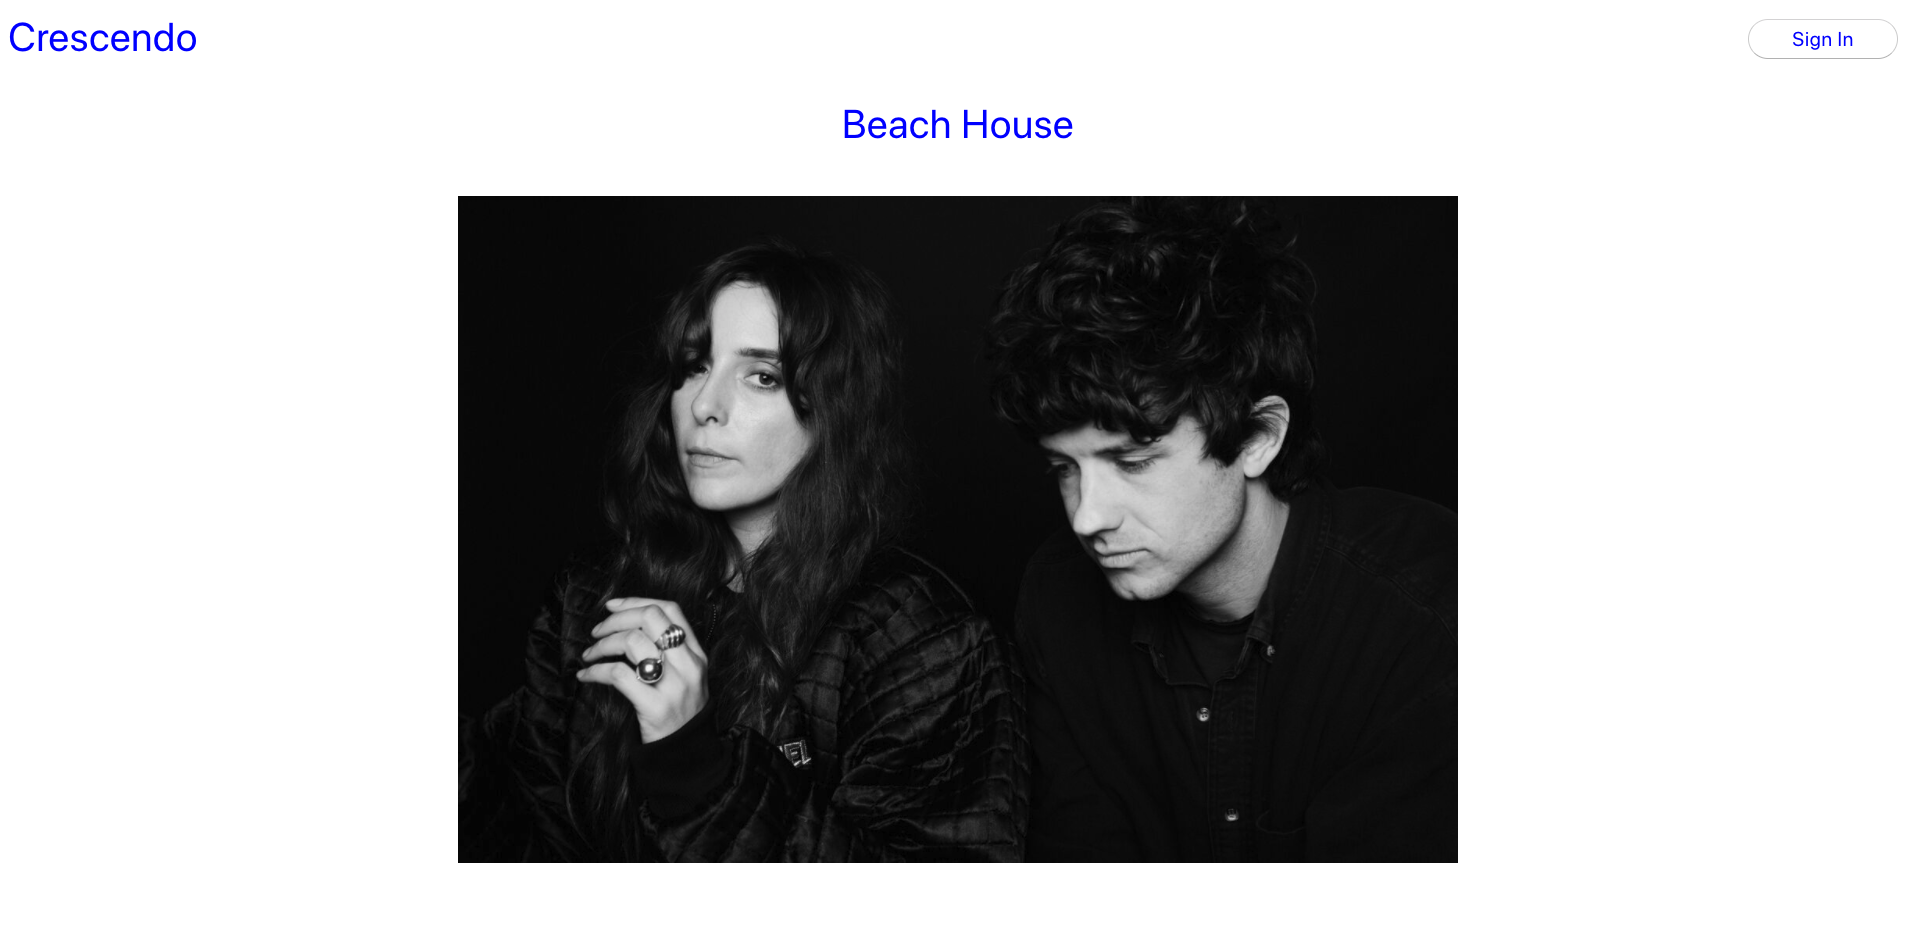
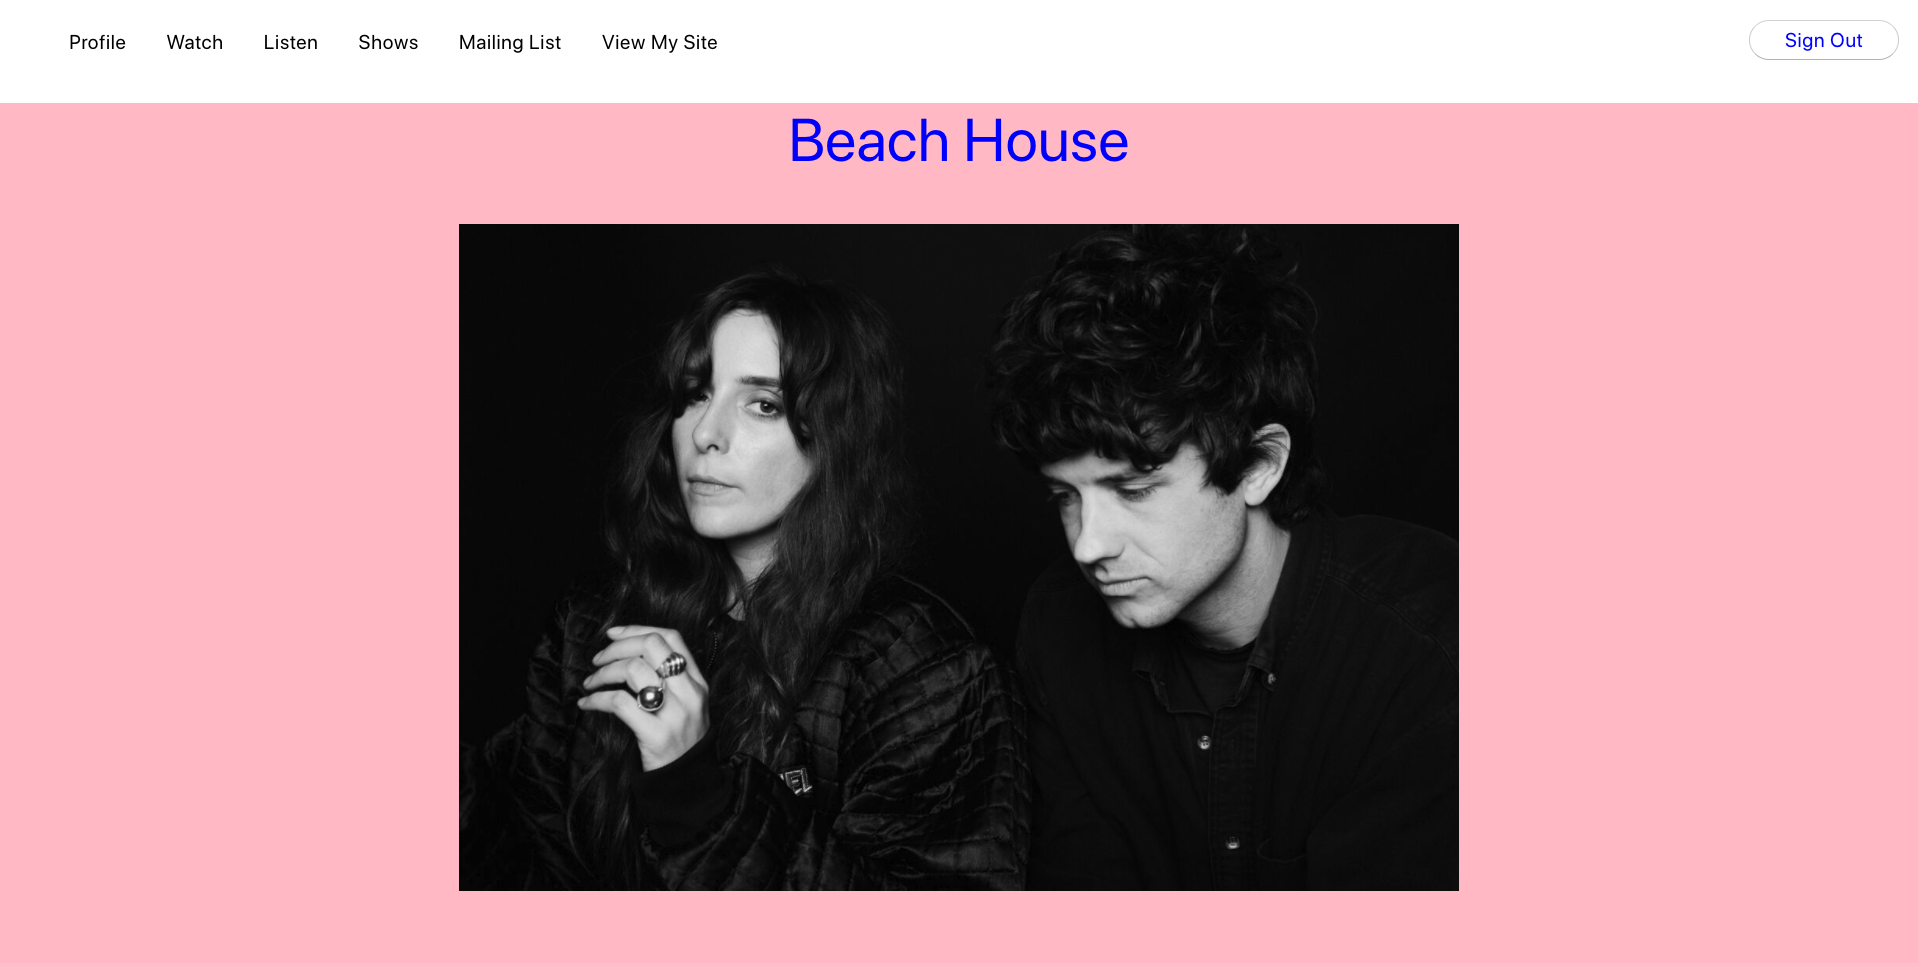
200415

diff --git a/src/ProfilePage/ProfilePage.js b/src/ProfilePage/ProfilePage.js
@@ -234,39 +234,35 @@ class ProfilePage extends Component {
             </p>
           </form>
 
-          <Context.Consumer>
-            {value => (
-              <div className="watchpage">
-                <section>
-                  {this.context.videos.map(video => (
-                    <div key={video.id}>
-                      <iframe
-                        className="videos"
-                        title="newVideo"
-                        width="46.3%"
-                        height="473"
-                        src={video.video}
-                        frameBorder="0"
-                        allow="accelerometer; autoplay; encrypted-media; gyroscope; picture-in-picture"
-                        allowFullScreen
-                      ></iframe>
-                      <div>
-                        <button
-                          className="delete-video"
-                          type="button"
-                          onClick={e => this.videosClickDelete(e, video.id)}
-                        >
-                          <i></i>
-                          {''}
-                          Delete
-                        </button>
-                      </div>
-                    </div>
-                  ))}
-                </section>
-              </div>
-            )}
-          </Context.Consumer>
+          <div className="watchpage">
+            <section>
+              {this.context.videos.map(video => (
+                <div key={video.id}>
+                  <iframe
+                    className="videos"
+                    title="newVideo"
+                    width="46.3%"
+                    height="473"
+                    src={video.video}
+                    frameBorder="0"
+                    allow="accelerometer; autoplay; encrypted-media; gyroscope; picture-in-picture"
+                    allowFullScreen
+                  ></iframe>
+                  <div>
+                    <button
+                      className="delete-video"
+                      type="button"
+                      onClick={e => this.videosClickDelete(e, video.id)}
+                    >
+                      <i></i>
+                      {''}
+                      Delete
+                    </button>
+                  </div>
+                </div>
+              ))}
+            </section>
+          </div>
 
           <h3>Submit Bandcamp embedded links for your music project</h3>
           <form
@@ -328,39 +324,37 @@ class ProfilePage extends Component {
             </p>
           </form>
 
-          <Context.Consumer>
-            {value => (
-              <div className="listenpage">
-                <section>
-                  {this.context.songs.map(song => (
-                    <div key={song.id}>
-                      <iframe
-                        className="songs"
-                        title="bandcamp alum"
-                        border="0"
-                        width="350px"
-                        height="470px"
-                        src={song.song}
-                      ></iframe>
-                      <div>
-                        <button
-                          className="delete"
-                          type="button"
-                          onClick={e => this.songsClickDelete(e, song.id)}
-                        >
-                          <i></i>
-                          {''}
-                          Delete
-                        </button>
-                      </div>
-                    </div>
-                  ))}
-                </section>
-              </div>
-            )}
-          </Context.Consumer>
+          <div className="listenpage">
+            <section className="image-songspage">
+              {this.context.songs.map(song => (
+                <div key={song.id}>
+                  <iframe
+                    className="songs"
+                    title="bandcamp alum"
+                    border="0"
+                    width="350px"
+                    height="470px"
+                    src={song.song}
+                  ></iframe>
+                  <div>
+                    <button
+                      className="delete-song"
+                      type="button"
+                      onClick={e => this.songsClickDelete(e, song.id)}
+                    >
+                      <i></i>
+                      {''}
+                      Delete
+                    </button>
+                  </div>
+                </div>
+              ))}
+            </section>
+          </div>
 
-          <h3>Submit your music project's upcoming shows</h3>
+          <h3 className="submit-shows">
+            Submit your music project's upcoming shows
+          </h3>
           <form
             className="band-form"
             ref={form => (this.form = form)}
@@ -422,39 +416,33 @@ class ProfilePage extends Component {
             </p>
           </form>
 
-          <Context.Consumer>
-            {value => (
-              <div className="showspage">
-                <section className="image-showspage">
-                  {this.context.shows.map(show => (
-                    <div key={show.id}>
-                      <div className="shows-render">
-                        <h3>{show.venue}</h3>
-                        <h3>{show.date}</h3>
-                        <h3>{show.city}</h3>
-                        <br />
-                      </div>
-                      <div>
-                        <button
-                          className="delete"
-                          type="button"
-                          onClick={e => this.showsClickDelete(e, show.id)}
-                        >
-                          <i></i>
-                          {''}
-                          Delete
-                        </button>
-                      </div>
-                    </div>
-                  ))}
-                </section>
-              </div>
-            )}
-          </Context.Consumer>
+          <div className="showspage">
+            <section className="image-showspage">
+              {this.context.shows.map(show => (
+                <div key={show.id}>
+                  <div className="shows-render">
+                    <h3>{show.venue}</h3>
+                    <h3>{show.date}</h3>
+                    <h3>{show.city}</h3>
+                    <br />
+                  </div>
+                  <div>
+                    <button
+                      className="delete"
+                      type="button"
+                      onClick={e => this.showsClickDelete(e, show.id)}
+                    >
+                      <i></i>
+                      {''}
+                      Delete
+                    </button>
+                  </div>
+                </div>
+              ))}
+            </section>
+          </div>
 
-          <h3 className="submit-social">
-            Submit social media links for your music project
-          </h3>
+          <h3>Submit social media links for your music project</h3>
           <form
             className="band-form"
             ref={form => (this.form = form)}

diff --git a/src/ProfilePage/ProfilePage.css b/src/ProfilePage/ProfilePage.css
@@ -71,6 +71,7 @@ button.submit-button:hover {
 }
 
 button.delete {
+  margin: 0px;
   margin-top: 0px;
   cursor: pointer;
   border-radius: 50px;
@@ -79,6 +80,21 @@ button.delete {
 }
 
 button.delete:hover {
+  box-shadow: 10px 10px grey;
+  transition: 0.3s;
+}
+
+button.delete-song {
+  margin-bottom: 50px;
+  margin: 0px;
+  margin-top: 0px;
+  cursor: pointer;
+  border-radius: 50px;
+  background-color: white;
+  color: blue;
+}
+
+button.delete-song:hover {
   box-shadow: 10px 10px grey;
   transition: 0.3s;
 }
@@ -107,10 +123,21 @@ button.delete-video:hover {
 
 .shows-render {
   height: 175px;
+  margin-top: 60px;
 }
 
 .image-showspage {
-  padding-bottom: 20px;
+  padding-bottom: 60px;
+}
+
+.image-songspage {
+  margin: 0px;
+  padding-bottom: 0px;
+}
+
+.submit-shows {
+  margin-top: 0px;
+  margin-bottom: 30px;
 }
 
 .show-help-false {
@@ -175,6 +202,11 @@ button.delete-video:hover {
     font-size: 15px;
   }
 
+  button.delete-song {
+    margin: 0px;
+    font-size: 15px;
+  }
+
   button.delete {
     margin: 0px;
     font-size: 15px;
@@ -185,7 +217,8 @@ button.delete-video:hover {
   }
 
   .shows-render {
-    margin-top: 20px;
+    margin-top: 30px;
+    margin-bottom: 30px;
     height: 135px;
   }
 
@@ -195,5 +228,20 @@ button.delete-video:hover {
 
   ul.help {
     padding-left: 0px;
+  }
+
+  h3 {
+    font-size: 25px;
+  }
+
+  .image-showspage {
+    padding-bottom: 20px;
+  }
+
+  @media screen and (max-width: 320px) {
+    .songs {
+      height: 470px;
+      max-width: 100%;
+    }
   }
 }

diff --git a/src/BandPage/BandPage.js b/src/BandPage/BandPage.js
@@ -47,12 +47,13 @@ class BandPage extends Component {
               />
             </div>
           </section>
+
+          <WatchPage profile={this.state.band} />
+          <ListenPage profile={this.state.band} />
+          <ShowsPage profile={this.state.band} />
+          <SignUpPage profile={this.state.band} />
+          <Footer profile={this.state.band} />
         </div>
-        <WatchPage profile={this.state.band} />
-        <ListenPage profile={this.state.band} />
-        <ShowsPage profile={this.state.band} />
-        <SignUpPage profile={this.state.band} />
-        <Footer profile={this.state.band} />
       </>
     ) : (
       'Loading...'

diff --git a/src/config.js b/src/config.js
@@ -1,6 +1,6 @@
 export default {
-  //API_ENDPOINT: 'https://powerful-basin-50906.herokuapp.com',
-  API_ENDPOINT: 'http://localhost:7000',
+  API_ENDPOINT: 'https://powerful-basin-50906.herokuapp.com',
+  // API_ENDPOINT: 'http://localhost:7000',
 
   REACT_APP_TOKEN_KEY:
     process.env.REACT_APP_TOKEN_KEY || 'crescendo-client-auth-token'

diff --git a/src/ListenPage/ListenPage.js b/src/ListenPage/ListenPage.js
@@ -9,7 +9,7 @@ class ListenPage extends Component {
     const profile = this.props.profile ? this.props.profile : this.context;
     return (
       <div className="listenpage">
-        <section>
+        <section className="listen-section">
           {profile.songs.map(song => (
             <div key={song.id}>
               <iframe

diff --git a/src/NavBar/NavBar.js b/src/NavBar/NavBar.js
@@ -41,7 +41,7 @@ class NavBar extends React.Component {
                     className="navlinks-a"
                     to={`/site/${this.context.userProfile.band_slug}`}
                   >
-                    View Site
+                    View My Site
                   </Link>
                 </li>
               ) : (

diff --git a/src/App.js b/src/App.js
@@ -371,7 +371,7 @@ class App extends Component {
             <Route path="/site/:bandslug" component={BandPage} />
           </main>
           <footer>
-            <Route path={/^(?!.*(\/site)).*$/} component={Footer} />
+            <Footer />
           </footer>
         </div>
       </Context.Provider>

diff --git a/src/BandPage/BandPage.css b/src/BandPage/BandPage.css
@@ -1,9 +1,19 @@
+.bandpage {
+  background-color: pink;
+}
+
 .band-name {
   color: blue;
+  font-size: 60px;
 }
 
 .image-bandPage {
   margin: 30px auto;
   width: 100%;
   max-width: 1000px;
+}
+
+.listen-section {
+  padding-bottom: 0px;
+  margin-bottom: 0px;
 }
